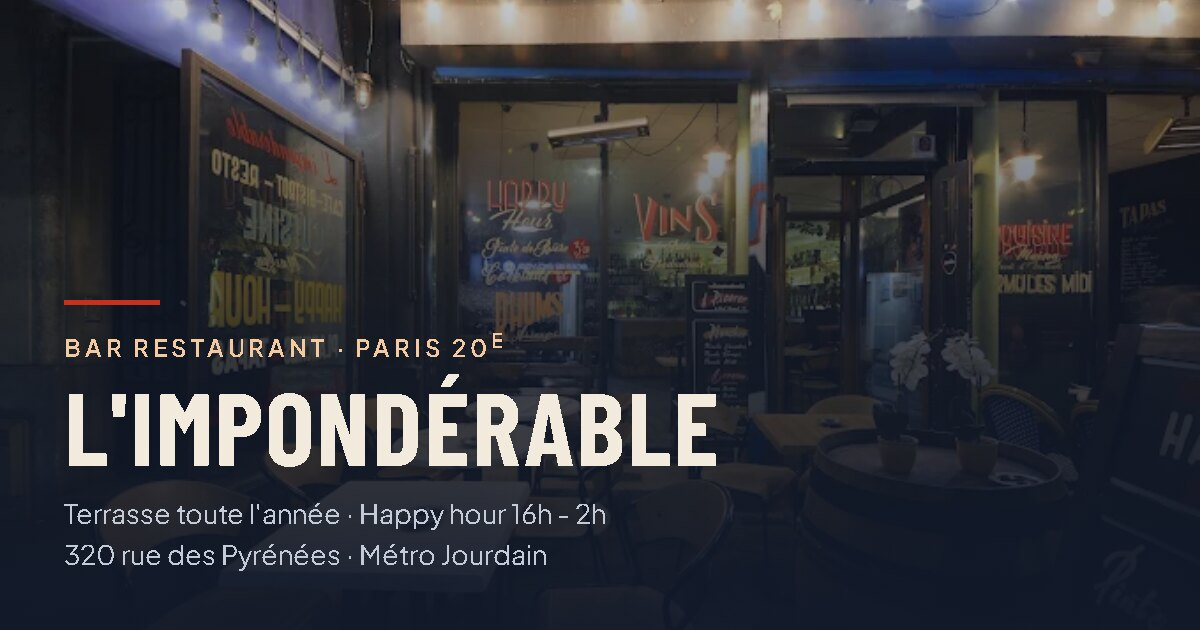
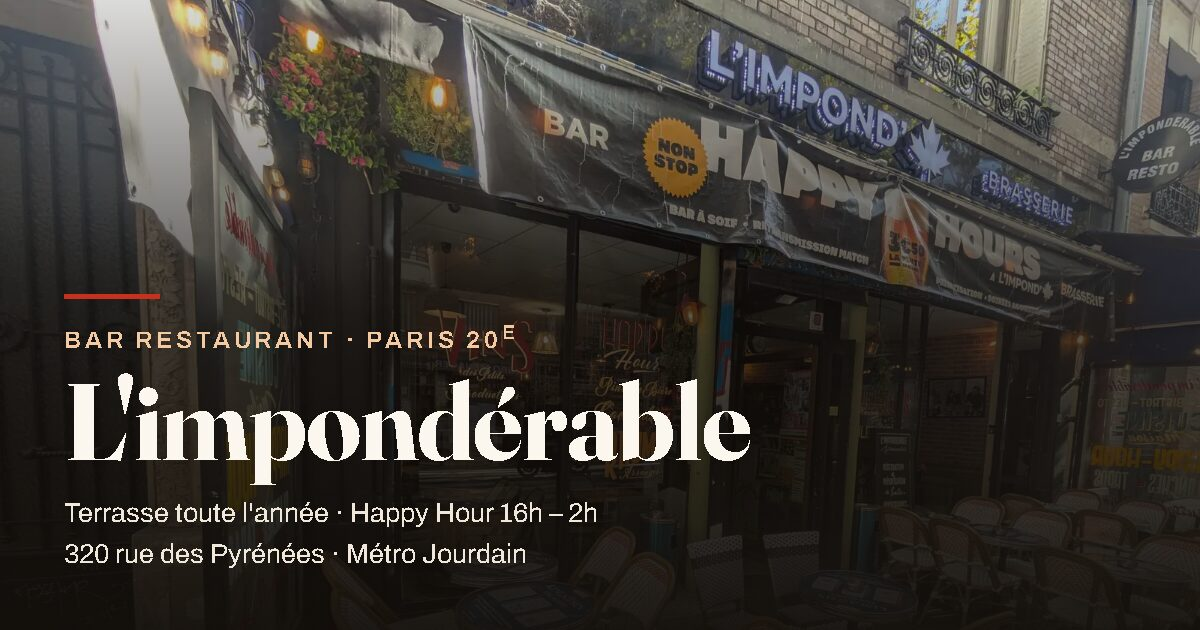
Nouveau hero, carte tapas et galerie de privatisation
- premier écran : photo réelle de la devanture, recadrée pour exclure
  une passante, en deux tailles (1200 et 1600 px) selon l'écran. Cadrage
  remonté pour garder l'enseigne dans le champ
- accueil : nouvelle carte « Tapas et planches », prix minimum calculé
  depuis la catégorie Tapas de la carte
- privatisation : deux photos de plus (plateau de charcuterie, finger
  food), soit une grille 2×2 sur ordinateur
- image de partage refaite à partir du nouveau premier écran. Son
  gabarit utilisait encore les polices supprimées à la refonte : il
  reprend Fraunces, Archivo et les couleurs actuelles
- textes alternatifs en français et en anglais, sitemap mis à jour

diff --git a/js/i18n.js b/js/i18n.js
@@ -76,6 +76,9 @@
             ambiance_couscous_titre: "Les couscous",
             ambiance_couscous_tag: "Spécialité du chef",
             ambiance_couscous_alt: "Couscous du chef à L'impondérable : semoule, viande, légumes, pois chiches et raisins secs",
+            ambiance_tapas_titre: "Tapas et planches",
+            ambiance_tapas_tag: "À partager",
+            ambiance_tapas_alt: "Planche mixte de L'impondérable : jambon, chorizo, fromages, salade, tomates cerises et cornichons",
             ambiance_terrasse_titre: "La terrasse",
             ambiance_terrasse_happy_hour: "Happy Hour 16h – 2h",
             ambiance_terrasse_alt: "Cocktail aux fruits rouges et citron vert sur la terrasse de L'impondérable, rue des Pyrénées à Paris 20e",
@@ -111,6 +114,8 @@
             meta_description_privatisation: "Anniversaire, pot de départ, after-work : privatisez tout ou partie du bar, jusqu'à 80 personnes, tous les jours sauf dimanche. Paris 20e, métro Jourdain.",
             og_titre_privatisation: "Privatiser un bar à Paris 20e — L'impondérable",
             privatisation_h1: "Privatiser le bar",
+            privatisation_photo_planche_alt: "Grand plateau de charcuterie à partager : jambons, saucisson, pâté, pain d'épices et tomates cerises",
+            privatisation_photo_finger_alt: "Assortiment de finger food : nuggets, sticks de mozzarella, onion rings, frites, salade et sauces",
             privatisation_photo_cocktails_alt: "Plateau de cocktails servi au comptoir en soirée : Aperol Spritz, Moscow Mule et mojito",
             privatisation_photo_salle_alt: "Salle privatisable de L'impondérable, le comptoir et les tables, rue des Pyrénées à Paris 20e",
             privatisation_savoir_h2: "Ce qu'il faut savoir",
@@ -204,6 +209,9 @@
             ambiance_couscous_titre: "Couscous",
             ambiance_couscous_tag: "Chef's speciality",
             ambiance_couscous_alt: "The chef's couscous at L'impondérable: semolina, meat, vegetables, chickpeas and raisins",
+            ambiance_tapas_titre: "Tapas and boards",
+            ambiance_tapas_tag: "For sharing",
+            ambiance_tapas_alt: "L'impondérable's mixed board: ham, chorizo, cheeses, salad, cherry tomatoes and gherkins",
             ambiance_terrasse_titre: "The terrace",
             ambiance_terrasse_happy_hour: "Happy Hour 4pm – 2am",
             ambiance_terrasse_alt: "Red berry and lime cocktail on L'impondérable's terrace, rue des Pyrénées in Paris 20th",
@@ -237,6 +245,8 @@
             meta_description_privatisation: "Birthday, leaving party, after-work drinks: hire part or all of the bar, up to 80 guests, every day except Sunday. Paris 20th, métro Jourdain.",
             og_titre_privatisation: "Private hire of a bar in Paris 20th — L'impondérable",
             privatisation_h1: "Book the bar",
+            privatisation_photo_planche_alt: "Large charcuterie platter for sharing: hams, saucisson, pâté, gingerbread and cherry tomatoes",
+            privatisation_photo_finger_alt: "Finger food selection: nuggets, mozzarella sticks, onion rings, fries, salad and dips",
             privatisation_photo_cocktails_alt: "A tray of cocktails served at the bar in the evening: Aperol Spritz, Moscow Mule and mojito",
             privatisation_photo_salle_alt: "L'impondérable's private-hire room, the counter and tables, rue des Pyrénées in Paris 20th",
             privatisation_savoir_h2: "Good to know",

diff --git a/outils/image-partage.html b/outils/image-partage.html
@@ -14,18 +14,18 @@
 -->
 <style>
     @font-face {
-        font-family: "Barlow Condensed";
-        src: url("../fonts/barlow-condensed-700.woff2") format("woff2");
+        font-family: "Fraunces";
+        src: url("../fonts/fraunces-700.woff2") format("woff2");
         font-weight: 700;
     }
     @font-face {
-        font-family: "Plus Jakarta Sans";
-        src: url("../fonts/plus-jakarta-sans-400.woff2") format("woff2");
+        font-family: "Archivo";
+        src: url("../fonts/archivo-400.woff2") format("woff2");
         font-weight: 400;
     }
     @font-face {
-        font-family: "Plus Jakarta Sans";
-        src: url("../fonts/plus-jakarta-sans-600.woff2") format("woff2");
+        font-family: "Archivo";
+        src: url("../fonts/archivo-600.woff2") format("woff2");
         font-weight: 600;
     }
 
@@ -36,7 +36,7 @@
         height: 630px;
         overflow: hidden;
         position: relative;
-        background-color: #121A2B;
+        background-color: #0C1A14;
     }
 
     .photo {
@@ -45,6 +45,8 @@
         width: 100%;
         height: 100%;
         object-fit: cover;
+        /* Remonte le cadrage pour garder l'enseigne « L'IMPOND' » visible. */
+        object-position: center 12%;
     }
 
     /* Voile dégradé : la photo reste lisible en haut, le texte détaché en bas. */
@@ -52,9 +54,9 @@
         position: absolute;
         inset: 0;
         background: linear-gradient(to bottom,
-            rgba(18, 26, 43, 0.25) 0%,
-            rgba(18, 26, 43, 0.75) 55%,
-            rgba(18, 26, 43, 0.96) 100%);
+            rgba(18, 14, 10, 0.15) 0%,
+            rgba(18, 14, 10, 0.70) 50%,
+            rgba(18, 14, 10, 0.94) 100%);
     }
 
     .contenu {
@@ -65,7 +67,7 @@
     }
 
     .eyebrow {
-        font-family: "Plus Jakarta Sans", sans-serif;
+        font-family: "Archivo", sans-serif;
         font-weight: 600;
         font-size: 24px;
         letter-spacing: 0.16em;
@@ -75,21 +77,20 @@
     }
 
     h1 {
-        font-family: "Barlow Condensed", "Arial Narrow", sans-serif;
+        font-family: "Fraunces", Georgia, serif;
         font-weight: 700;
-        font-size: 104px;
-        line-height: 0.95;
-        letter-spacing: 0.02em;
-        text-transform: uppercase;
-        color: #F2EBDD;
+        font-size: 108px;
+        line-height: 1;
+        letter-spacing: -0.01em;
+        color: #FBF6EE;
         margin-bottom: 18px;
     }
 
     .infos {
-        font-family: "Plus Jakarta Sans", sans-serif;
+        font-family: "Archivo", sans-serif;
         font-size: 27px;
         line-height: 1.5;
-        color: #C3CAD8;
+        color: #EFE7DA;
     }
 
     /* Filet d'accent, repris de l'identité du site. */
@@ -102,7 +103,7 @@
 </style>
 </head>
 <body>
-    <img class="photo" src="../img/terrasse-hiver.webp" alt="">
+    <img class="photo" src="../img/terrasse-jour.webp" alt="">
     <div class="voile"></div>
     <div class="contenu">
         <div class="filet"></div>

diff --git a/index.html b/index.html
@@ -29,7 +29,7 @@
     <link rel="preload" href="fonts/fraunces-700.woff2" as="font" type="font/woff2" crossorigin>
     <link rel="preload" href="fonts/archivo-400.woff2" as="font" type="font/woff2" crossorigin>
     <!-- Plus grand élément du premier écran : c'est lui que mesure le LCP. -->
-    <link rel="preload" href="img/terrasse-jour.webp" as="image" fetchpriority="high">
+    <link rel="preload" href="img/terrasse-jour.webp" imagesrcset="img/terrasse-jour-1200.webp 1200w, img/terrasse-jour.webp 1600w" imagesizes="100vw" as="image" fetchpriority="high">
     <link rel="stylesheet" href="css/style.css">
     <script src="js/jour-nuit.js"></script>
     <!-- Données structurées (schema.org). Elles ne changent rien à l'affichage :
@@ -187,7 +187,7 @@
     <main id="contenu" tabindex="-1">
         <section class="hero">
         <div class="hero-media">
-            <img src="img/terrasse-jour.webp" alt="Devanture et terrasse de L'impondérable, rue des Pyrénées à Paris 20e" data-i18n-alt="hero_photo_alt" width="1158" height="896" fetchpriority="high">
+            <img src="img/terrasse-jour.webp" srcset="img/terrasse-jour-1200.webp 1200w, img/terrasse-jour.webp 1600w" sizes="100vw" alt="Devanture et terrasse de L'impondérable, rue des Pyrénées à Paris 20e" data-i18n-alt="hero_photo_alt" width="1600" height="1362" fetchpriority="high">
         </div>
         <div class="hero-content">
             <p class="eyebrow" data-i18n="hero_eyebrow">Bar restaurant, terrasse toute l'année, ouvert 7j/7</p>
@@ -271,6 +271,16 @@
                 <div class="card-body">
                     <h3 data-i18n="ambiance_couscous_titre">Les couscous</h3>
                     <span class="card-prix" data-prix-min="couscous"></span>
+                </div>
+            </div>
+            <div class="card">
+                <div class="card-media">
+                    <img src="img/planche-mixte.webp" alt="Planche mixte de L'impondérable : jambon, chorizo, fromages, salade, tomates cerises et cornichons" data-i18n-alt="ambiance_tapas_alt" width="922" height="692" loading="lazy" decoding="async">
+                    <span class="tag-picture" data-i18n="ambiance_tapas_tag">À partager</span>
+                </div>
+                <div class="card-body">
+                    <h3 data-i18n="ambiance_tapas_titre">Tapas et planches</h3>
+                    <span class="card-prix" data-prix-min="tapas"></span>
                 </div>
             </div>
             <div class="card">

diff --git a/privatisation.html b/privatisation.html
@@ -128,6 +128,12 @@
             <div class="card-media">
                 <img src="img/plateau-cocktails.webp" alt="Plateau de cocktails servi au comptoir en soirée : Aperol Spritz, Moscow Mule et mojito" data-i18n-alt="privatisation_photo_cocktails_alt" width="1000" height="750" loading="lazy" decoding="async">
             </div>
+            <div class="card-media">
+                <img src="img/megaplanche.webp" alt="Grand plateau de charcuterie à partager : jambons, saucisson, pâté, pain d'épices et tomates cerises" data-i18n-alt="privatisation_photo_planche_alt" width="922" height="692" loading="lazy" decoding="async">
+            </div>
+            <div class="card-media">
+                <img src="img/finger-food.webp" alt="Assortiment de finger food : nuggets, sticks de mozzarella, onion rings, frites, salade et sauces" data-i18n-alt="privatisation_photo_finger_alt" width="1000" height="750" loading="lazy" decoding="async">
+            </div>
         </section>
 
         <section class="privatisation-savoir">

diff --git a/css/style.css b/css/style.css
@@ -661,6 +661,8 @@ body.menu-ouvert {
     width: 100%;
     height: 100%;
     object-fit: cover;
+    /* Cadrage remonté : garde l'enseigne « L'IMPOND' » dans le champ. */
+    object-position: center 15%;
     filter: var(--photo-filtre);
 }
 
